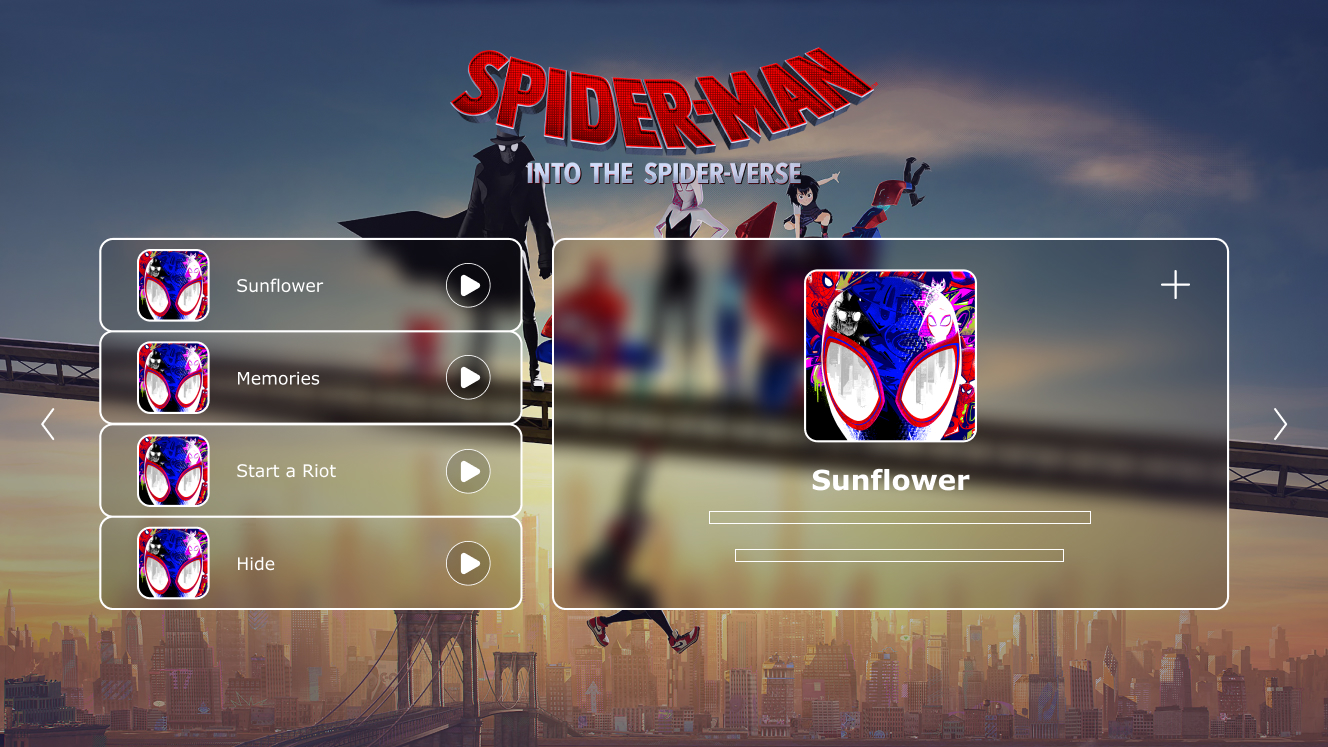
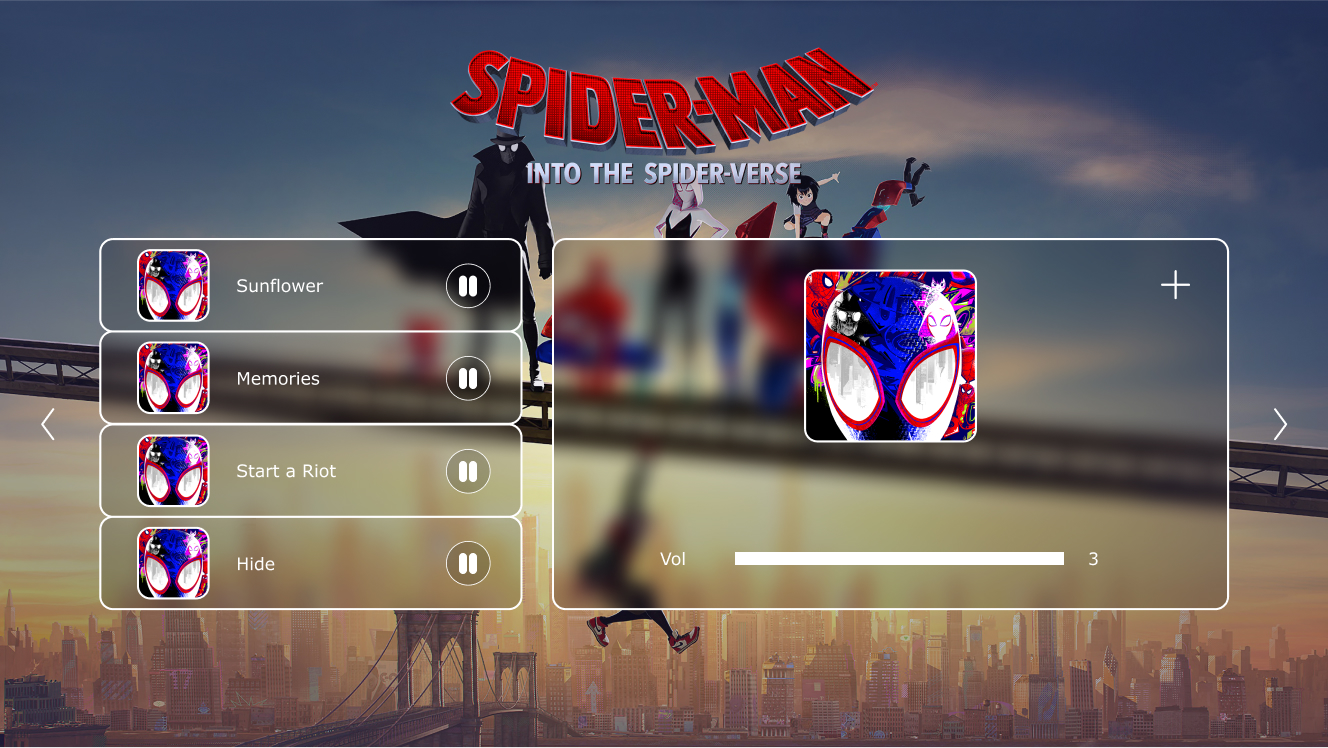
Slider y tiempo canción

diff --git a/sketch.js b/sketch.js
@@ -1,3 +1,4 @@
+let OUTPUT = "HEAD";
 let seleccionado;
 
 let familia;
@@ -31,6 +32,19 @@ let pantalla1;
 let pantalla2;
 let pantalla3;
 
+this.rectangulo = {
+  x: 710,
+  y: 500,
+  w: 381,
+  h: 11
+}
+
+this.circulo = {
+  x: 710,
+  y: 504,
+  r: 10
+}
+
 
 function setup() {
   pantalla = 0;
@@ -42,43 +56,66 @@ function setup() {
 
   createCanvas(1328, 747);
 
-  danger = new Cancion({nombre: "Whats Up Danger", ubicacion: 'Assets/danger.mp3'});
-  elevate = new Cancion({nombre: "Elevate", ubicacion: 'Assets/y2mate.com - Elevate.mp3'});
-  invincible = new Cancion({nombre: "Invincible", ubicacion: 'Assets/y2mate.com - Invincible.mp3'});
-  wayUp = new Cancion({nombre: "Way Up", ubicacion: 'Assets/y2mate.com - Way Up.mp3'});
-  scared = new Cancion({nombre: "Scared Of The Dark", ubicacion: 'Assets/y2mate.com - Scared of the Dark.mp3'});
-  familia = new Cancion({nombre: "Familia", ubicacion: 'Assets/y2mate.com - Familia SpiderMan Into the SpiderVerse.mp3'});
-  hide = new Cancion({nombre: "Hide", ubicacion: 'Assets/y2mate.com - Hide.mp3'});
-  home = new Cancion({nombre: "Home", ubicacion: 'Assets/y2mate.com - Home.mp3'});
-  sunflower = new Cancion({nombre: "Sunflower", ubicacion: 'Assets/y2mate.com - Post Malone Swae Lee  Sunflower SpiderMan Into the SpiderVerse.mp3'});
-  saveTheDay = new Cancion({nombre: "Save The Day", ubicacion: 'Assets/y2mate.com - Save The Day.mp3'});
-  riot = new Cancion({nombre: "Start a Riot", ubicacion: 'Assets/y2mate.com - Start a Riot.mp3'});
-  memories = new Cancion({nombre: "Memories", ubicacion: 'Assets/y2mate.com - Thutmose  Memories SpiderMan Into The SpiderVerse.mp3'});
+  danger = new Cancion({nombre: "Whats Up Danger", ubicacion: 'Assets/danger.mp3', duracion: "3:53"});
+  elevate = new Cancion({nombre: "Elevate", ubicacion: 'Assets/y2mate.com - Elevate.mp3', duracion: "3:39"});
+  invincible = new Cancion({nombre: "Invincible", ubicacion: 'Assets/y2mate.com - Invincible.mp3', duracion: "316"});
+  wayUp = new Cancion({nombre: "Way Up", ubicacion: 'Assets/y2mate.com - Way Up.mp3', duracion: "3:33"});
+  scared = new Cancion({nombre: "Scared Of The Dark", ubicacion: 'Assets/y2mate.com - Scared of the Dark.mp3', duracion: "3:53"});
+  familia = new Cancion({nombre: "Familia", ubicacion: 'Assets/y2mate.com - Familia SpiderMan Into the SpiderVerse.mp3', duracion: "3:39"});
+  hide = new Cancion({nombre: "Hide", ubicacion: 'Assets/y2mate.com - Hide.mp3', duracion: "3:25"});
+  home = new Cancion({nombre: "Home", ubicacion: 'Assets/y2mate.com - Home.mp3', duracion: "3:42"});
+  sunflower = new Cancion({nombre: "Sunflower", ubicacion: 'Assets/y2mate.com - Post Malone Swae Lee  Sunflower SpiderMan Into the SpiderVerse.mp3', duracion: "2:41"});
+  saveTheDay = new Cancion({nombre: "Save The Day", ubicacion: 'Assets/y2mate.com - Save The Day.mp3', duracion: "2:58"});
+  riot = new Cancion({nombre: "Start a Riot", ubicacion: 'Assets/y2mate.com - Start a Riot.mp3', duracion: "2:51"});
+  memories = new Cancion({nombre: "Memories", ubicacion: 'Assets/y2mate.com - Thutmose  Memories SpiderMan Into The SpiderVerse.mp3', duracion: "3:19"});
   
 
   pantalla1 = new Pantalla({imagen: 'Assets/Pantalla1.jpg'});
   pantalla2 = new Pantalla({imagen: 'Assets/Pantalla2.jpg'});
   pantalla3 = new Pantalla({imagen: 'Assets/Pantalla3.png'});
 
-  seleccionado = danger;
+  seleccionado = danger;    
 }
 
 function draw() {
+
+ 
 
   switch (pantalla) {
 
     case 0:
       pantalla1.show();
+      fill(255);
+      noStroke();
+      rect(this.rectangulo.x, this.rectangulo.y, this.rectangulo.w, this.rectangulo.h);
+      ellipseMode(CENTER);
+      ellipse(this.circulo.x, this.circulo.y, this.circulo.r*2);
       seleccionado.draw();
-            
+      seleccionado.pintarTiempo();
+      
     break;
   
     case 1:
       pantalla2.show();
+      fill(255);
+      noStroke();
+      rect(this.rectangulo.x, this.rectangulo.y, this.rectangulo.w, this.rectangulo.h);
+      ellipseMode(CENTER);
+      ellipse(this.circulo.x, this.circulo.y, this.circulo.r*2);
+      seleccionado.draw();
+      seleccionado.pintarTiempo();
+
     break;
 
     case 2:
       pantalla3.show();
+      fill(255);
+      noStroke();
+      rect(this.rectangulo.x, this.rectangulo.y, this.rectangulo.w, this.rectangulo.h);
+      ellipseMode(CENTER);
+      ellipse(this.circulo.x, this.circulo.y, this.circulo.r*2);
+      seleccionado.draw();
+      seleccionado.pintarTiempo();
     break;
   }
 }
@@ -170,152 +207,181 @@ function mousePressed() {
       saveTheDay.pausaCancion();
   
       homeIsPlaying = !homeIsPlaying;
-      }
+      seleccionado = home;
+    }
   
-      if(dist(mouseX, mouseY, 468, 275) < 20 && !homeIsPlaying) {
+    if(dist(mouseX, mouseY, 468, 275) < 20 && !homeIsPlaying) {
       home.pausaCancion();
   
       homeIsPlaying = false;
-      }
+    }
   
-      if(dist(mouseX, mouseY, 310, 367) < 50) {
+    if(dist(mouseX, mouseY, 310, 367) < 50) {
       elevate.playCancion();
       home.pausaCancion();
       familia.pausaCancion();
       saveTheDay.pausaCancion();
   
       elevateIsPlaying = !elevateIsPlaying;
-      }
+      seleccionado = elevate;
+    }
   
-      if(dist(mouseX, mouseY, 468, 367) < 20 && !elevateIsPlaying) {
+    if(dist(mouseX, mouseY, 468, 367) < 20 && !elevateIsPlaying) {
       elevate.pausaCancion();
   
       elevateIsPlaying = false;
-      }
+    }
   
-      if(dist(mouseX, mouseY, 310, 460) < 50) {
+    if(dist(mouseX, mouseY, 310, 460) < 50) {
       familia.playCancion();
       home.pausaCancion();
       elevate.pausaCancion();
       saveTheDay.pausaCancion();
   
       familiaIsPlaying = !familiaIsPlaying;
-      }
+      seleccionado = familia;
+    }
   
-      if(dist(mouseX, mouseY, 468, 460) < 20 && !familiaIsPlaying) {
+    if(dist(mouseX, mouseY, 468, 460) < 20 && !familiaIsPlaying) {
       familia.pausaCancion();
   
       familiaIsPlaying = false;
-      }
+    }
   
-      if(dist(mouseX, mouseY, 310, 550) < 50) {
+    if(dist(mouseX, mouseY, 310, 550) < 50) {
       saveTheDay.playCancion();
       home.pausaCancion();
       elevate.pausaCancion();
       familia.pausaCancion();
   
       saveTheDayIsPlaying = !saveTheDayIsPlaying;
-      }
+      seleccionado = saveTheDay;
+    }
   
-      if(dist(mouseX, mouseY, 468, 550) < 20 && !saveTheDayIsPlaying) {
+    if(dist(mouseX, mouseY, 468, 550) < 20 && !saveTheDayIsPlaying) {
       saveTheDay.pausaCancion();
   
       saveTheDayIsPlaying = false;
-      }
+    }
 
-      if(dist(mouseX, mouseY, 48, 413) < 50) {
+    if(dist(mouseX, mouseY, 48, 413) < 50) {
       pantalla = 0;
-      }
+    }
       
-      if(dist(mouseX, mouseY, 1274, 398) < 50) {
+    if(dist(mouseX, mouseY, 1274, 398) < 50) {
       pantalla = 2;
-      }
+    }
     
-    break;
+  break;
 
-    case 2:
-      if(dist(mouseX, mouseY, 310, 275) < 50) {
-        sunflower.playCancion();
-        memories.pausaCancion();
-        riot.pausaCancion();
-        hide.pausaCancion();
+  case 2:
+    if(dist(mouseX, mouseY, 310, 275) < 50) {
+      sunflower.playCancion();
+      memories.pausaCancion();
+      riot.pausaCancion();
+      hide.pausaCancion();
     
-        sunflowerIsPlaying = !sunflowerIsPlaying;
-        }
+      sunflowerIsPlaying = !sunflowerIsPlaying;
+      seleccionado = sunflower;
+    }
     
-        if(dist(mouseX, mouseY, 468, 275) < 20 && !sunflowerIsPlaying) {
-        sunflower.pausaCancion();
+    if(dist(mouseX, mouseY, 468, 275) < 20 && !sunflowerIsPlaying) {
+      sunflower.pausaCancion();
     
-        sunflowerIsPlaying = false;
-        }
+      sunflowerIsPlaying = false;
+    }
     
-        if(dist(mouseX, mouseY, 310, 367) < 50) {
-        memories.playCancion();
-        sunflower.pausaCancion();
-        riot.pausaCancion();
-        hide.pausaCancion();
+    if(dist(mouseX, mouseY, 310, 367) < 50) {
+      memories.playCancion();
+      sunflower.pausaCancion();
+      riot.pausaCancion();
+      hide.pausaCancion();
     
-        memoriesIsPlaying = !memoriesIsPlaying;
-        }
+      memoriesIsPlaying = !memoriesIsPlaying;
+      seleccionado = memories;
+    }
     
-        if(dist(mouseX, mouseY, 468, 367) < 20 && !memoriesIsPlaying) {
-        memories.pausaCancion();
+    if(dist(mouseX, mouseY, 468, 367) < 20 && !memoriesIsPlaying) {
+      memories.pausaCancion();
     
-        memoriesIsPlaying = false;
-        }
+      memoriesIsPlaying = false;
+    }
     
-        if(dist(mouseX, mouseY, 310, 460) < 50) {
-        riot.playCancion();
-        sunflower.pausaCancion();
-        memories.pausaCancion();
-        hide.pausaCancion();
+    if(dist(mouseX, mouseY, 310, 460) < 50) {
+      riot.playCancion();
+      sunflower.pausaCancion();
+      memories.pausaCancion();
+      hide.pausaCancion();
     
-        riotIsPlaying = !riotIsPlaying;
-        }
+      riotIsPlaying = !riotIsPlaying;
+      seleccionado = riot;
+    }
     
-        if(dist(mouseX, mouseY, 468, 460) < 20 && !riotIsPlaying) {
-        riotIsPlaying.pausaCancion();
+    if(dist(mouseX, mouseY, 468, 460) < 20 && !riotIsPlaying) {
+      riotIsPlaying.pausaCancion();
     
-        riotIsPlaying = false;
-        }
+      riotIsPlaying = false;
+    }
     
-        if(dist(mouseX, mouseY, 310, 550) < 50) {
-        hide.playCancion();
-        sunflower.pausaCancion();
-        memories.pausaCancion();
-        riot.pausaCancion();
+    if(dist(mouseX, mouseY, 310, 550) < 50) {
+      hide.playCancion();
+      sunflower.pausaCancion();
+      memories.pausaCancion();
+      riot.pausaCancion();
     
-        hideIsPlaying = !hideIsPlaying;
-        }
+      hideIsPlaying = !hideIsPlaying;
+      seleccionado = hide;
+    }
     
-        if(dist(mouseX, mouseY, 468, 550) < 20 && !hideIsPlaying) {
-        hideIsPlaying.pausaCancion();
+    if(dist(mouseX, mouseY, 468, 550) < 20 && !hideIsPlaying) {
+      hideIsPlaying.pausaCancion();
     
-        hideIsPlaying = false;
-        }
+      hideIsPlaying = false;
+    }
   
-        if(dist(mouseX, mouseY, 48, 413) < 50) {
-        pantalla = 1;
-        }
+    if(dist(mouseX, mouseY, 48, 413) < 50) {
+      pantalla = 1;
+    }
         
-        if(dist(mouseX, mouseY, 1274, 398) < 50) {
-        pantalla = 3;
-        }
-      break;
+    if(dist(mouseX, mouseY, 1274, 398) < 50) {
+      pantalla = 3;
+    }
+  break;
 
-      case 3:
-        if(dist(mouseX, mouseY, 48, 413) < 50) {
-          pantalla = 2;
-        }
+  case 3:
+    if(dist(mouseX, mouseY, 48, 413) < 50) {
+      pantalla = 2;
+    }
           
-        if(dist(mouseX, mouseY, 1274, 398) < 50) {
-          pantalla = 0;
-        }
-        break;
-
-
+    if(dist(mouseX, mouseY, 1274, 398) < 50) {
+      pantalla = 0;
+    }
+  break;
   }
 
+}
 
+function mouseDragged(){
+  
+  if(dist(mouseX,mouseY, this.circulo.x,this.circulo.y) < this.circulo.r){
+    let bonderies = {
+      x1: this.rectangulo.x,
+      x2: this.rectangulo.x + this.rectangulo.w,
+    }
+    let isInRange = mouseX > bonderies.x1 && mouseX < bonderies.x2;
+    if(isInRange){
+      this.circulo.x = mouseX;
+          
+      if(OUTPUT === 'VOLUME') {
+        let volume = map(mouseX, bonderies.x1,bonderies.x2, 0,100) / 100;
+        seleccionado.setVolume(volume)
+      } else if (OUTPUT === "HEAD") {
+        let head = map(mouseX, bonderies.x1,bonderies.x2, 0,seleccionado.duration());
+        seleccionado.jump(head)
+      }
+    
+    }
+  }
 
+   
 }

diff --git a/Cancion.js b/Cancion.js
@@ -1,7 +1,8 @@
 class Cancion {
-    constructor({nombre, ubicacion}) {
+    constructor({nombre, ubicacion, duracion}) {
         this.nombre = nombre;
         this.ubicacion = ubicacion;
+        this.duracion = duracion;
 
         this.creaCancion = createAudio(ubicacion);
     }
@@ -17,7 +18,11 @@ class Cancion {
         textFont('Verdana');
         text(this.nombre, 765, 476);
     }
-    n() {
-        
+    pintarTiempo() {
+        fill(225);
+        textSize(17);
+        textFont('Verdana');
+        text(this.duracion, 1112, 514);
     }
+    
 }
